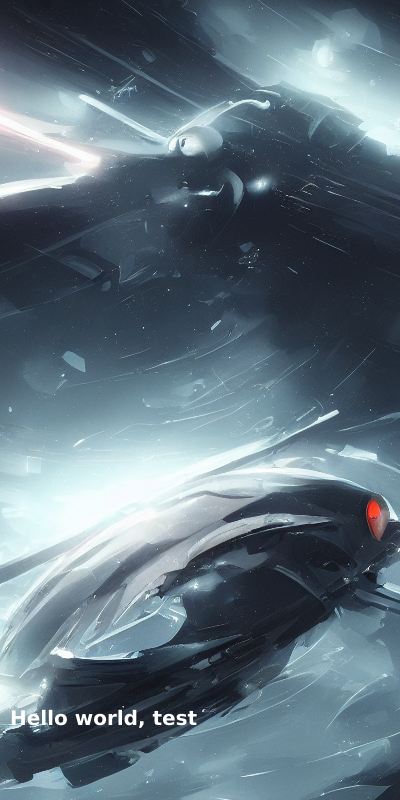
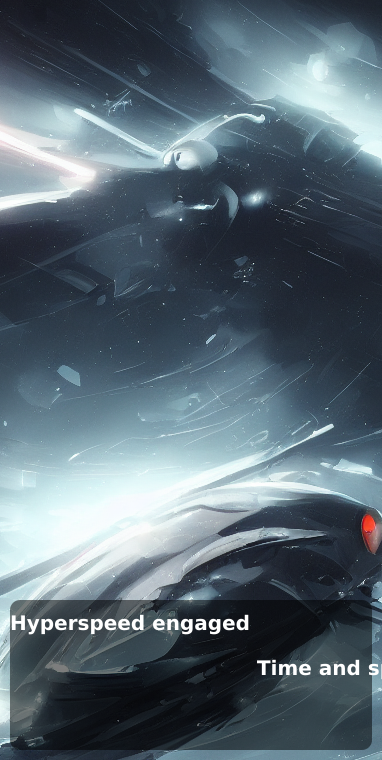
starting to get sharp working...a tiny bit

diff --git a/server/api/images/index.post.ts b/server/api/images/index.post.ts
@@ -3,9 +3,11 @@ import sharp from 'sharp'
 
 const config = useRuntimeConfig()
 
-export default defineEventHandler(async (event):Promise<String> => {
+export default defineEventHandler(async (event) => {
   const body = await useValidatedBody(event, z.object({
     imgUrl: z.string(),
+    screenH: z.number(),
+    screenW: z.number()
   }))
   
   const response = await $fetch(body.imgUrl, {
@@ -13,67 +15,92 @@ export default defineEventHandler(async (event):Promise<String> => {
   })
 
   const buffer = Buffer.from(response, "utf-8")
-
-  console.log(buffer.slice(0,8))
-
-  console.log(buffer.slice(8,12))
-
-
   
-  // const croppedImage = await resizeImage(buffer)
-  // console.log(croppedImage)
-  // await addTextOnImage(croppedImage)
+  let width:number
+  let height:number
+  let left:number 
+  let top:number
 
-  return "foo"
+  if(body.screenH >= 896 && body.screenW >= 768) {
+    width = 768
+    height = 896
+    await addTextOnImage(buffer, height, width)
+    return event.res.end()
+  }
+
+  width = Math.round(body.screenW * 0.98)
+  height = Math.round(body.screenH * 0.90)
+  left = Math.round((768 - body.screenW) / 2)
+  top = Math.round((896 - body.screenH) / 2)
+
+  const croppedImage = await resizeImage(buffer, width, height, left, top)
+  await addTextOnImage(croppedImage, height, width)
+
+  return event.res.end()
 })
 
 
-// async function resizeImage(image:Buffer):Promise<Buffer> {
-//
-//   try {
-//     const sharpInst = sharp(image)
-//       .extract({ width: 400, height: 800, left: 184, top: 40  })
-//       .toBuffer()
-//
-//     return sharpInst
-//   } catch(error) {
-//     console.log(error)
-//   }
-// }
-//
-//
-// async function addTextOnImage(image:Buffer) {
-//   try {
-//     const width = 400;
-//     const height = 50;
-//     const text = "Hello world, test";
-//
-//     const svgImage = `
-//     <svg width="${width}" height="${height}">
-//       <style>
-//         @import url("https://fonts.googleapis.com/css?family=Anonymous+Pro:400,400i,700,700i");
-//         @font-face{
-//           font-family: 'Space Mono';
-//           src: url(../../../fonts/SpaceMono-Bold.ttf);
-//           font-weight: bold;
-//           font-style: normal;
-//         }
-//         .title { fill: #fff; font-size: 20px;}
-//       </style>
-//       <text x="0%" y="50%" text-anchor="start" class="title" font-family="Anonymous Pro" font-weight="bold">${text}</text>
-//     </svg>
-//     `;
-//     const svgBuffer = Buffer.from(svgImage);
-//     const imageResp = await sharp(image)
-//       .composite([
-//         {
-//           input: svgBuffer,
-//           top: 700,
-//           left: 10,
-//         },
-//       ])
-//       .toFile("test-image.png");
-//   } catch (error) {
-//     console.log(error);
-//   }
-// }
+async function resizeImage(
+  image:Buffer, 
+  width:number, 
+  height:number,
+  left:number,
+  top:number
+):Promise<Buffer> {
+  try {
+    const croppedImg = sharp(image)
+      .extract({ width: width, height: height, left: left, top: top })
+      .toBuffer()
+    return croppedImg
+  } catch(error) {
+    console.log(error)
+  }
+}
+
+
+async function addTextOnImage(image:Buffer, imgHeight:number, imgWidth:number) {
+  try {
+    const svgWidth = imgWidth;
+    const svgHeight = 150;
+    const svgTopPos = imgHeight - svgHeight - 10
+    const lineOne = "Hyperspeed engaged";
+    const lineTwo = "Time and space a memory";
+    const lineThree = "Lightspeed traveler";
+
+    const svgImage = `
+    <svg width="${svgWidth}" height="${svgHeight}">
+      <style>
+        @import url("https://fonts.googleapis.com/css?family=Anonymous+Pro:400,400i,700,700i");
+        @font-face{
+          font-family: 'Space Mono';
+          src: url(../../../fonts/SpaceMono-Bold.ttf);
+          font-weight: bold;
+          font-style: normal;
+        }
+        .title { 
+          fill: #fff; 
+          font-size: 20px;
+          padding: 50px 50px 50px 50px;
+        }
+      </style>
+      <rect width="${svgWidth - 20}" height="${svgHeight}" rx="10" fill="black" fill-opacity="0.5"/>
+      <text y="20%" text-anchor="start" class="title" font-family="Anonymous Pro" font-weight="bold">${lineOne}
+        <tspan y="50%" text-anchor="start" class="title" font-family="Anonymous Pro" font-weight="bold">${lineTwo}</tspan>
+        <tspan y="75%" text-anchor="start" class="title" font-family="Anonymous Pro" font-weight="bold">${lineThree}</tspan>
+      </text>
+    </svg>
+    `;
+    const svgBuffer = Buffer.from(svgImage);
+    const imageResp = await sharp(image)
+      .composite([
+        {
+          input: svgBuffer,
+          top: svgTopPos,
+          left: 10,
+        },
+      ])
+      .toFile("test-image.png");
+  } catch (error) {
+    console.log(error);
+  }
+}
